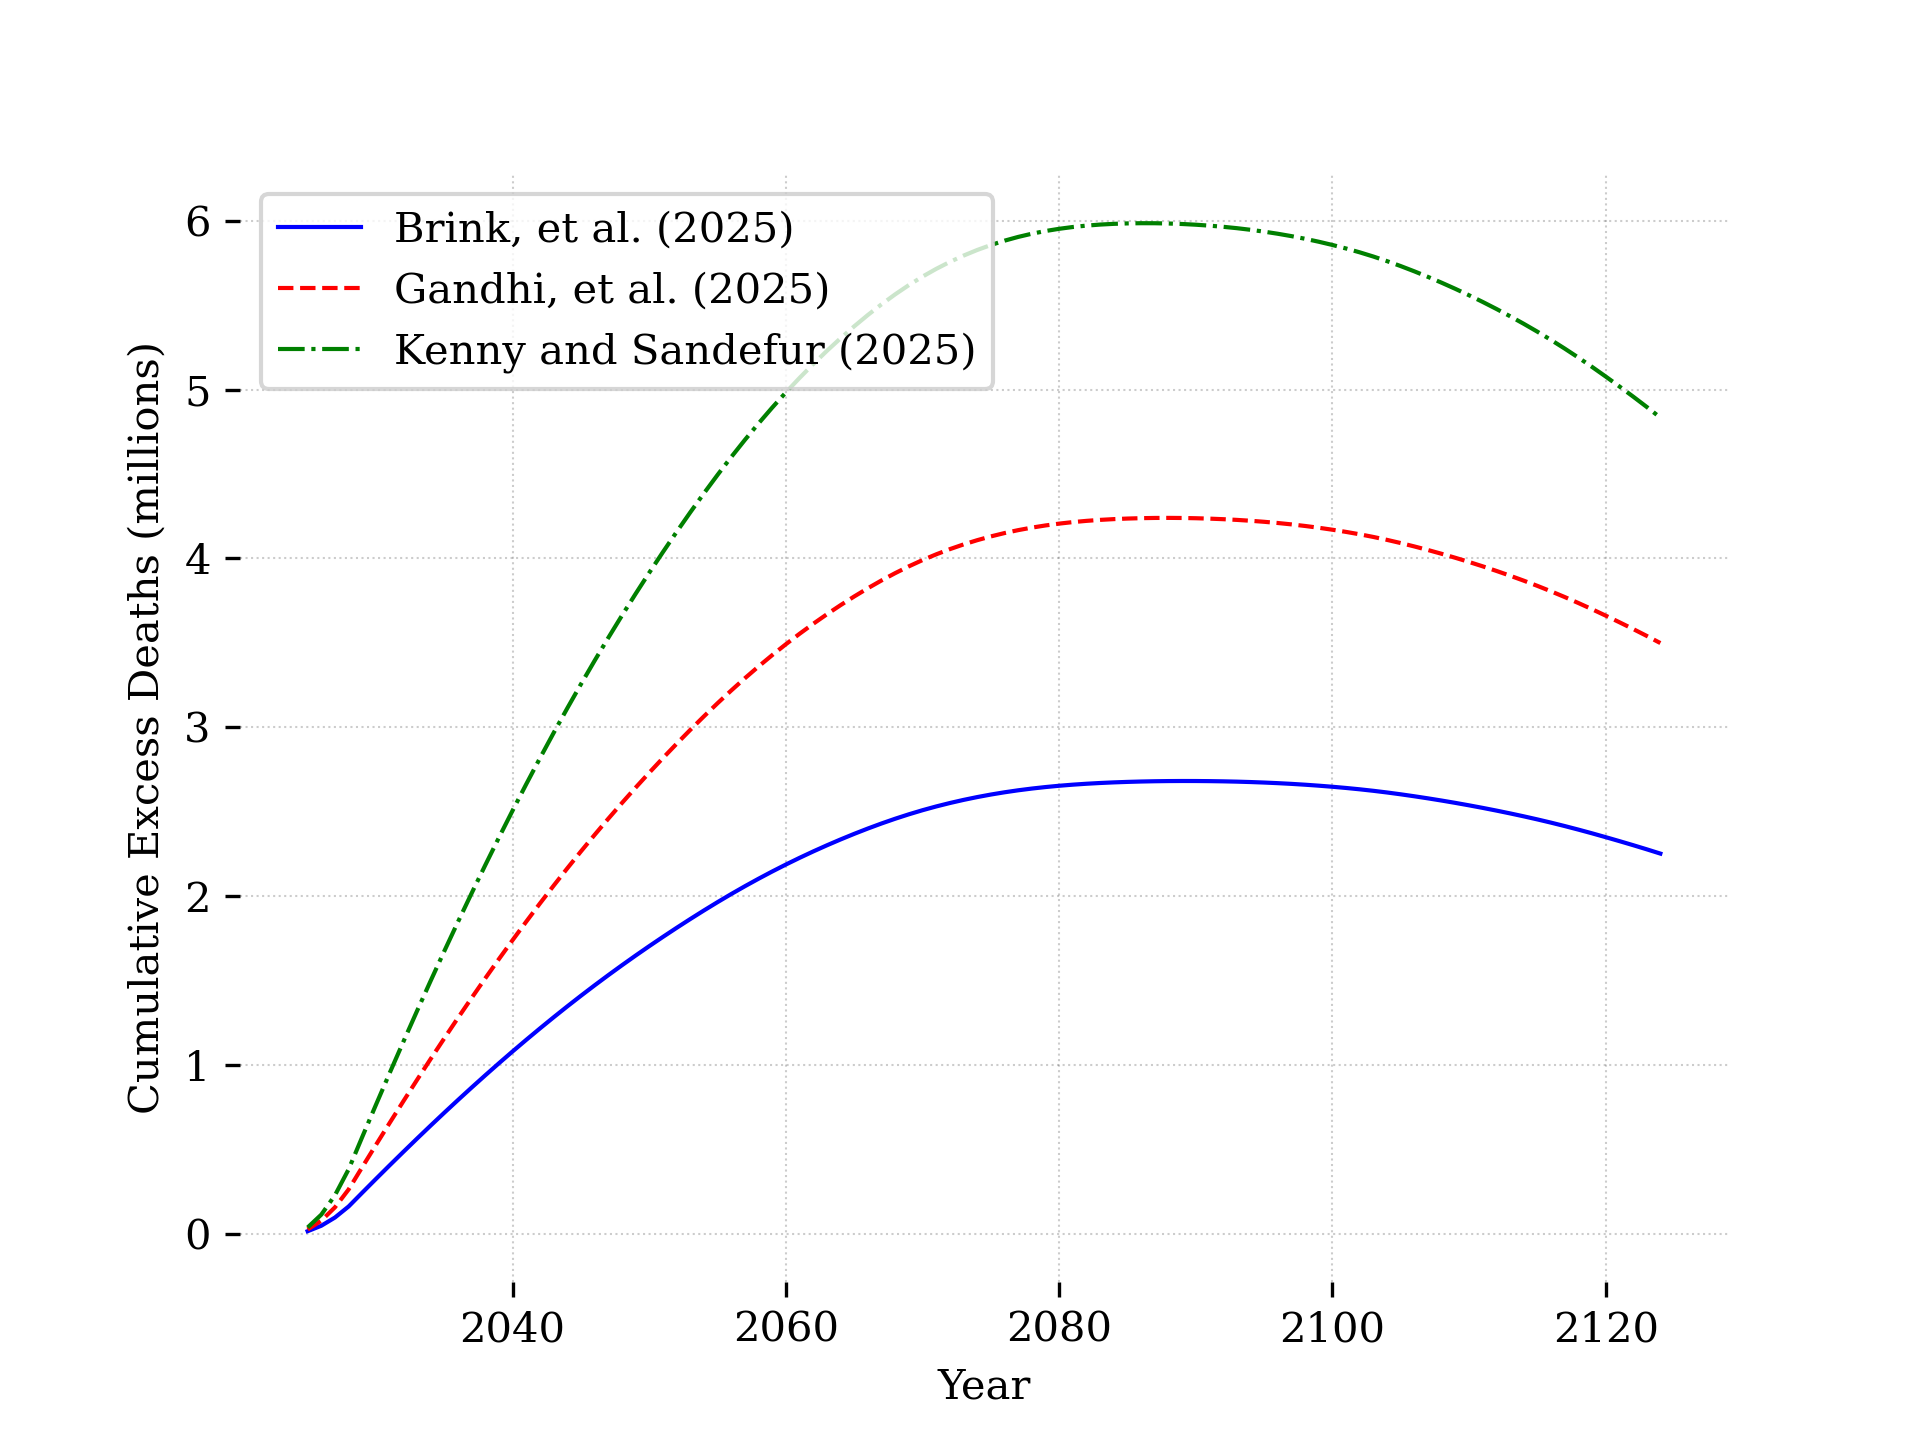
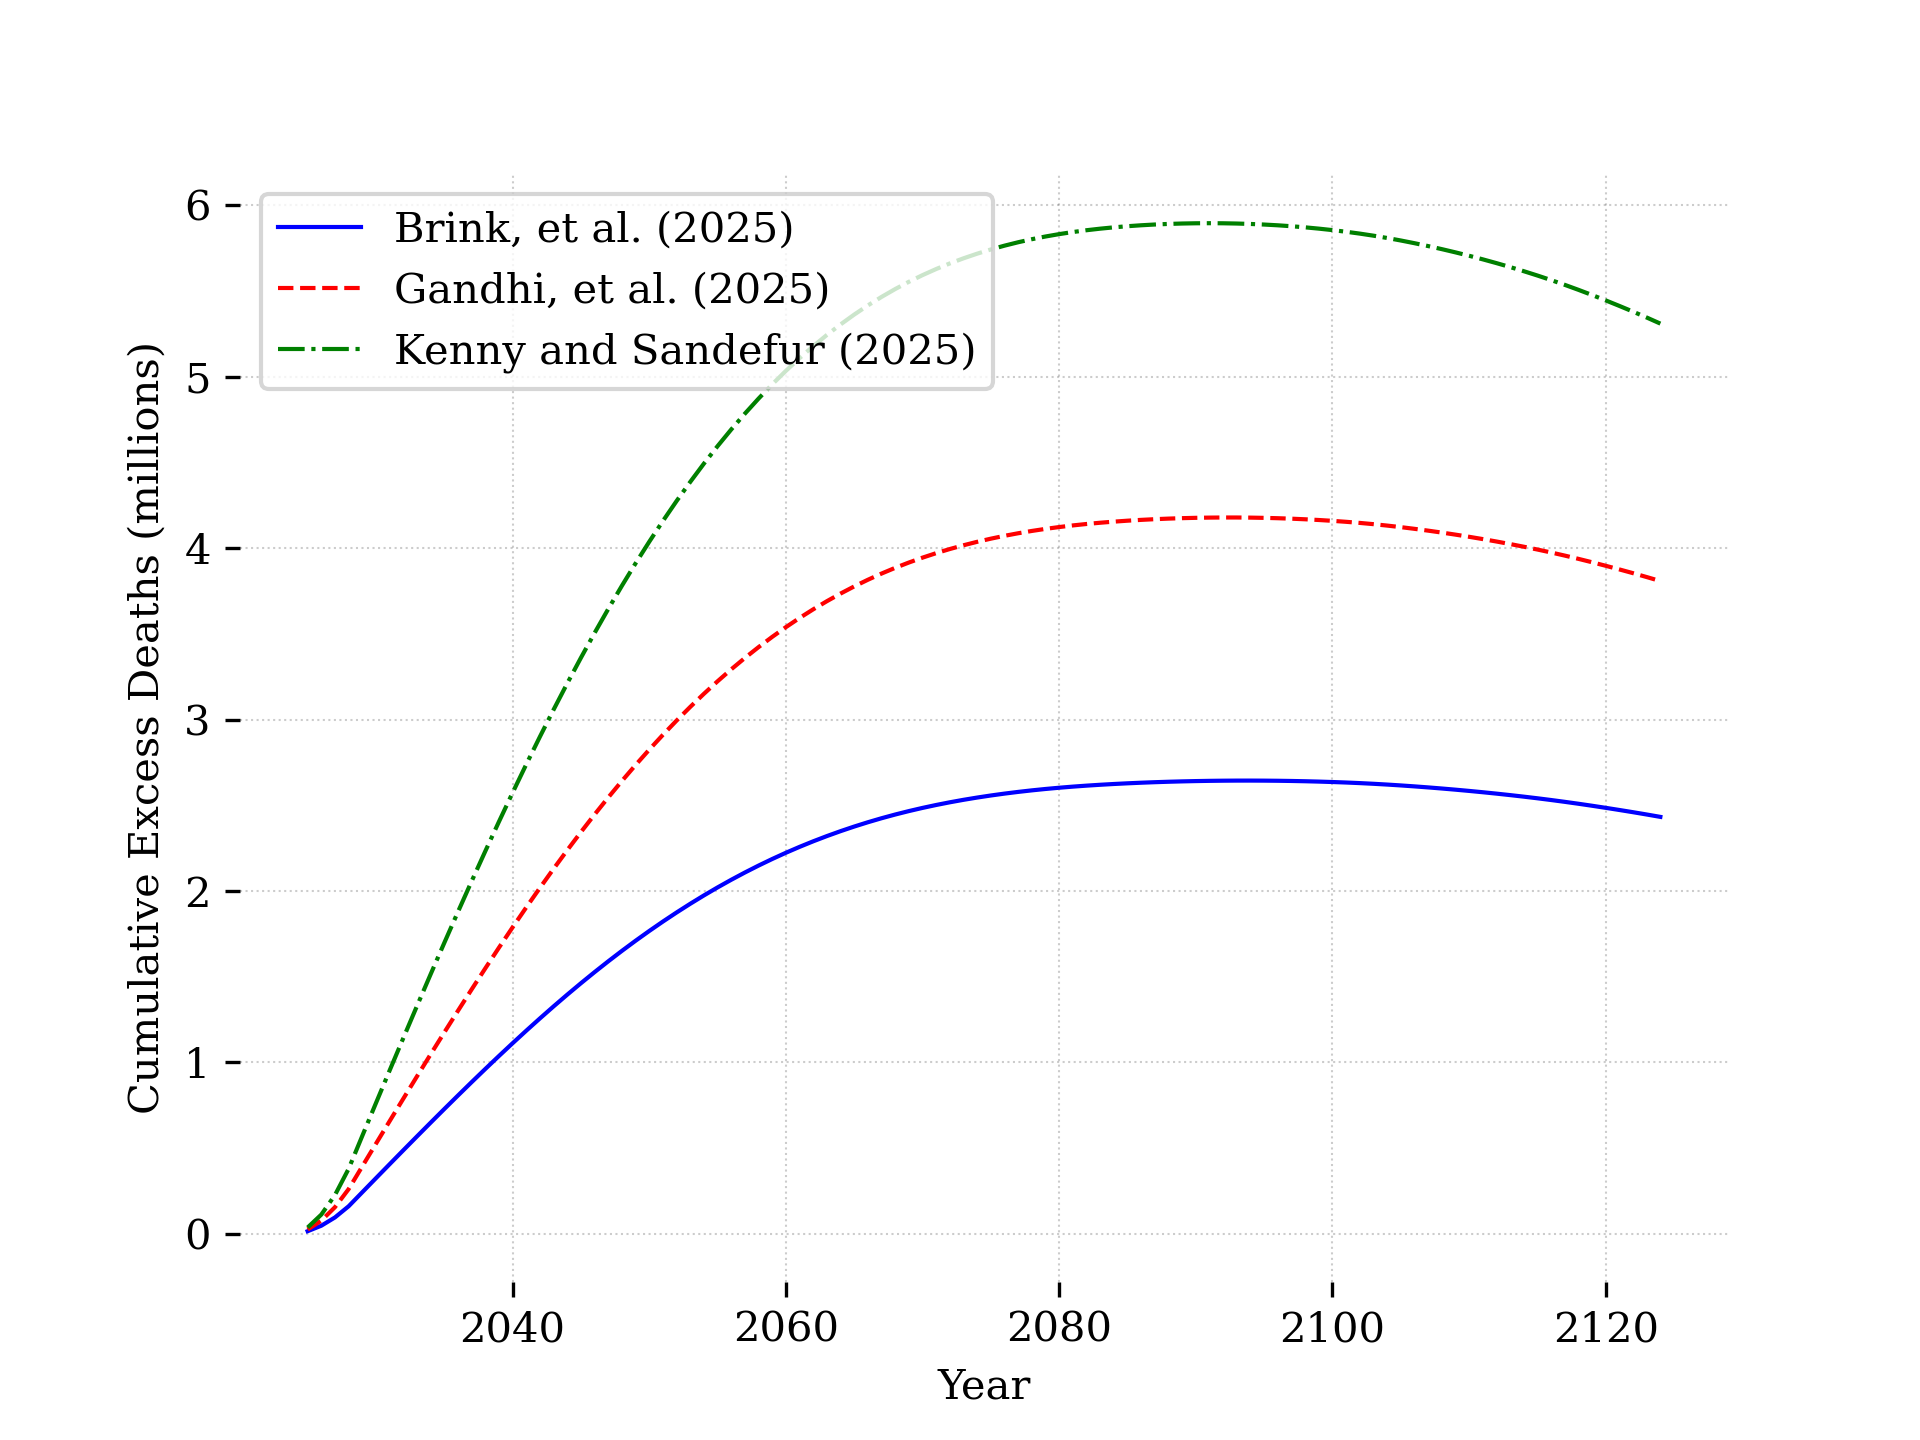
Refresh PR37 manuscript results and figures

diff --git a/source/JDE/CostOfDisease_JDE_bins.tex b/source/JDE/CostOfDisease_JDE_bins.tex
@@ -397,7 +397,7 @@ The design enables mechanism attribution in the aggregate outcomes: mortality sh
 
 We simulate each of the three scenarios described above with the corresponding mortality and morbidity adjustments for our South Africa calibrated macroeconomic model. The results show that the macroeconomic costs of renewed disease burden in South Africa are substantial and persistent after aid withdrawal.
 
-The last column of Table \ref{tab:scenarios} presents the average annual GDP losses over the first 20 years of the simulation horizon. In the medium scenario, our preferred specification, South Africa's GDP declines by about \$15.5 billion per year over 2025--2044 (in 2025 US dollars), or is on average 2.3\% lower over that period than in the baseline path. Under the low excess deaths scenario, the average annual loss is about \$9.4 billion, while in the high excess deaths scenario the average annual GDP loss is about \$22.5 billion. These losses reflect persistent reductions in effective labor supply and human capital accumulation. The GBD-based HIV mortality profile continues to place most excess deaths in working ages, but it also implies a different timing pattern than a proportional all-age mortality scaling rule, with larger average losses in the first two decades and larger discounted losses over the full 100-year horizon. Total global US development assistance for health was about \$21 billion in 2021, below the average annual GDP loss in the high excess death scenario. If we compare the low-scenario GDP loss to U.S. health assistance to South Africa in 2023, about \$462 million, the implied annual benefit-to-cost ratio is roughly 20 to 1.\footnote{See \href{https://foreignassistance.gov}{https://foreignassistance.gov}.}
+The last column of Table \ref{tab:scenarios} presents the average annual GDP losses over the first 20 years of the simulation horizon. In the medium scenario, our preferred specification, South Africa's GDP declines by about \$17.2 billion per year over 2025--2044 (in 2025 US dollars), or is on average 2.3\% lower over that period than in the baseline path. Under the low excess deaths scenario, the average annual loss is about \$10.5 billion, while in the high excess deaths scenario the average annual GDP loss is about \$25.0 billion. These losses reflect persistent reductions in effective labor supply and human capital accumulation. The GBD-based HIV mortality profile continues to place most excess deaths in working ages, but it also implies a different timing pattern than a proportional all-age mortality scaling rule, with larger average losses in the first two decades and larger discounted losses over the full 100-year horizon. Total global US development assistance for health was about \$21 billion in 2021, below the average annual GDP loss in the high excess death scenario. If we compare the low-scenario GDP loss to U.S. health assistance to South Africa in 2023, about \$462 million, the implied annual benefit-to-cost ratio is roughly 23 to 1.\footnote{See \href{https://foreignassistance.gov}{https://foreignassistance.gov}.}
 
 We also note that GDP impacts of disease are a potentially narrow measure of the true benefits to society of disease prevention. Therefore, our estimates should be thought of as the most conservative way to think about the costs of increased disease prevalence. However, even with this strict metric, the costs of increased disease prevalence are substantial.
 
@@ -411,20 +411,20 @@ We also note that GDP impacts of disease are a potentially narrow measure of the
     \multicolumn{1}{c}{} & \multicolumn{1}{c}{} & \multicolumn{1}{c}{deaths} & \multicolumn{1}{c}{Absenteeism} & \multicolumn{1}{c}{2025-2044} \\
     \multicolumn{1}{c}{Scenario} & \multicolumn{1}{c}{Study} & \multicolumn{1}{c}{(annual)} & \multicolumn{1}{c}{impact} & \multicolumn{1}{c}{(bil 2025 USD)} \\
     \hline\hline
-    Low    & \citet{Brink2025}  &  81,958 & 0.194\% & -9.39 \\
+    Low    & \citet{Brink2025}  &  81,958 & 0.194\% & -10.49 \\
     & & & (50\% of baseline) & \\
     \hline
-    Medium & \citet{Gandhi2025} & 132,600 & 0.388\% & -15.47 \\
+    Medium & \citet{Gandhi2025} & 132,600 & 0.388\% & -17.24 \\
     & & & (baseline) & \\
     \hline
-    High   & \citet{KS2025}     & 192,212 & 0.582\% & -22.48 \\
+    High   & \citet{KS2025}     & 192,212 & 0.582\% & -24.99 \\
     & & & (150\% of baseline) & \\
     \hline\hline
   \end{tabular}
   \end{threeparttable}
 \end{table}
 
-Table \ref{tab:NPVLosses} summarizes the net present value (NPV) of cumulative GDP losses under each scenario, with each row representing a different discount rate used for the NPV calculation. In the medium scenario using a 2\% discount rate, the total discounted loss is about \$5.32 trillion (in 2025 US dollars). The low scenario yields a 2\% NPV loss of about \$3.34 trillion, while the high scenario projects losses of about \$7.56 trillion. These values highlight the long-run macroeconomic consequences of disruptions to disease control and treatment services. Relative to a proportional all-age mortality scaling rule, the GBD-based age profile produces larger GDP losses both in the first 20 years and on an NPV basis over the full horizon because more of the mortality burden falls in productive ages. To compare these economic costs to the cost of prevention we can take the amount of foreign assistance for health programs in South Africa before 2025 and assume this support would continue indefinitely. This assistance totaled about \$500 million per year.\footnote{See \href{https://foreignassistance.gov}{https://foreignassistance.gov}.} The NPV (at a 2\% discount rate) of providing this level of funding in perpetuity is \$25 billion. On that comparison, the medium-scenario economic losses are about 213 times larger than the cost of prevention.
+Table \ref{tab:NPVLosses} summarizes the net present value (NPV) of cumulative GDP losses under each scenario, with each row representing a different discount rate used for the NPV calculation. In the medium scenario using a 2\% discount rate, the total discounted loss is about \$4.72 trillion (in 2025 US dollars). The low scenario yields a 2\% NPV loss of about \$2.95 trillion, while the high scenario projects losses of about \$6.72 trillion. These values highlight the long-run macroeconomic consequences of disruptions to disease control and treatment services. Relative to a proportional all-age mortality scaling rule, the GBD-based age profile produces larger GDP losses both in the first 20 years and on an NPV basis over the full horizon because more of the mortality burden falls in productive ages. To compare these economic costs to the cost of prevention we can take the amount of foreign assistance for health programs in South Africa before 2025 and assume this support would continue indefinitely. This assistance totaled about \$500 million per year.\footnote{See \href{https://foreignassistance.gov}{https://foreignassistance.gov}.} The NPV (at a 2\% discount rate) of providing this level of funding in perpetuity is \$25 billion. On that comparison, the medium-scenario economic losses are about 189 times larger than the cost of prevention.
 
 \begin{table}[H] \centering \captionsetup{width=6.0in}
   \caption{\label{tab:NPVLosses}Net Present Value of GDP Loss (billions of 2025 USD), South Africa}
@@ -433,16 +433,16 @@ Table \ref{tab:NPVLosses} summarizes the net present value (NPV) of cumulative G
     Discount & Low scenario & Medium scenario & High scenario \\[-1.5mm]
     rate & \citet{Brink2025} & \citet{Gandhi2025} & \citet{KS2025} \\
     \hline\hline
-    1\% & -6,473.45 & -10,305.77 & -14,623.46 \\
-    2\% & -3,337.07 & -5,320.57 & -7,559.16 \\
-    3\% & -1,828.62 & -2,921.03 & -4,156.37 \\
-    4\% & -1,067.06 & -1,708.40 & -2,435.21 \\
-    6\% & -434.00 & -698.72 & -1,000.02 \\
+    1\% & -5,634.35 & -8,991.62 & -12,785.61 \\
+    2\% & -2,953.45 & -4,719.45 & -6,716.97 \\
+    3\% & -1,650.42 & -2,641.73 & -3,764.17 \\
+    4\% & -984.10 & -1,578.45 & -2,252.19 \\
+    6\% & -418.51 & -674.68 & -965.77 \\
     \hline\hline
   \end{tabular}
 \end{table}
 
-These results indicate that the economic burden of disease extends far beyond the direct costs to the health sector. Even in the more optimistic scenario, where the health system absorbs much of the shock, the loss in output is substantial. The high-impact scenario shows that a collapse in treatment access and mitigation capacity could leave GDP on average 3.3\% below the baseline path over the first two decades, with average annual losses of about \$22.5 billion.
+These results indicate that the economic burden of disease extends far beyond the direct costs to the health sector. Even in the more optimistic scenario, where the health system absorbs much of the shock, the loss in output is substantial. The high-impact scenario shows that a collapse in treatment access and mitigation capacity could leave GDP on average 3.3\% below the baseline path over the first two decades, with average annual losses of about \$25.0 billion.
 
 The spread in outcomes across low, medium, and high scenarios should be interpreted as sensitivity to epidemiological input uncertainty rather than full parametric uncertainty of all model assumptions. Even under this conservative framing, the implied long-run macroeconomic losses remain large and persistent. These South Africa results are best understood as one realization of the framework under a particular demographic structure, disease profile, and external financing composition.
 
@@ -450,7 +450,7 @@ The spread in outcomes across low, medium, and high scenarios should be interpre
 
 This paper develops and illustrates a portable framework for quantifying the macroeconomic returns to external health aid in high-burden low- and middle-income countries. The framework combines epidemiological mortality projections and morbidity-based labor shocks within a calibrated overlapping generations general equilibrium model, and summarizes the results as a discounted present-value GDP loss that is directly comparable to the cost of maintaining the financing.
 
-Applied to South Africa as a primary illustration, our preferred medium scenario implies GDP that is on average about 2.3\% below the baseline path over the first two decades and discounted losses of about \$5.32 trillion at a 2\% discount rate, against an NPV cost of aid in perpetuity of roughly \$25 billion. The implied benefit-to-cost ratio of about 213:1 is illustrative of the potential macroeconomic returns across a broad class of high-burden settings. Using the South Africa GBD HIV mortality profile yields a more data-driven age mapping than a uniform all-age scaling rule, and it also highlights that the timing of output losses can shift materially with the age pattern of mortality.
+Applied to South Africa as a primary illustration, our preferred medium scenario implies GDP that is on average about 2.3\% below the baseline path over the first two decades and discounted losses of about \$4.72 trillion at a 2\% discount rate, against an NPV cost of aid in perpetuity of roughly \$25 billion. The implied benefit-to-cost ratio of about 189:1 is illustrative of the potential macroeconomic returns across a broad class of high-burden settings. Using the South Africa GBD HIV mortality profile yields a more data-driven age mapping than a uniform all-age scaling rule, and it also highlights that the timing of output losses can shift materially with the age pattern of mortality.
 
 The central methodological contribution is a transparent mapping from epidemiological evidence to general-equilibrium output dynamics that can be specifically calibrated across countries. Health-financing disruptions create persistent macroeconomic damage through interacting mortality and labor channels, and the magnitude of these effects depends systematically on demographic structure, disease burden, and external financing composition.
 
@@ -464,7 +464,7 @@ To guide implementation in other settings, applications require four core countr
 
 Some assumptions in the baseline specification are context-sensitive and may not transport one-for-one. In particular, the mapping from aggregate excess deaths to age-specific mortality schedules, the proportional scaling of morbidity wedges across scenarios, and the incidence of morbidity effects across skill groups should be re-estimated when local evidence is available. A practical extension roadmap is to prioritize three robustness margins in new applications: alternative age profiles or age-mortality mappings, explicit mitigation scenarios with partial domestic replacement, and alternative exposure incidence across skill and informal-sector groups.
 
-More broadly, the large benefit-to-cost ratios estimated here---about 213:1 on an NPV basis in the South Africa medium scenario---are consistent with the broader development literature showing high returns to public health investments in LMICs \citep{coleImpactPoorHealth2006,turanLifeExpectancyEconomic2020}. They suggest that external health assistance to high-burden countries is not merely humanitarian in character but generates substantial macroeconomic returns. This reframing has practical implications: public health organizations and development finance institutions should assess the potential economic returns from health aid, negotiate methods for delivery of services, and innovate methods to finance these expenditures, particularly for countries that lack the financial capacity and expertise to build and maintain the necessary public health infrastructure independently.
+More broadly, the large benefit-to-cost ratios estimated here---about 189:1 on an NPV basis in the South Africa medium scenario---are consistent with the broader development literature showing high returns to public health investments in LMICs \citep{coleImpactPoorHealth2006,turanLifeExpectancyEconomic2020}. They suggest that external health assistance to high-burden countries is not merely humanitarian in character but generates substantial macroeconomic returns. This reframing has practical implications: public health organizations and development finance institutions should assess the potential economic returns from health aid, negotiate methods for delivery of services, and innovate methods to finance these expenditures, particularly for countries that lack the financial capacity and expertise to build and maintain the necessary public health infrastructure independently.
 
 Given our estimated high returns to public health investment and the likelihood that most of the benefits accrue within the country, another implication is that these are some of the best internal investments of public funds. Many LMICs are cash constrained, and the desired public health services often require humanitarian and organizational expertise that is not present in the country. But subsidized loans to LMICs to facilitate public health investment is likely an important addition to foreign direct investment in the portfolio of public health options.
 
